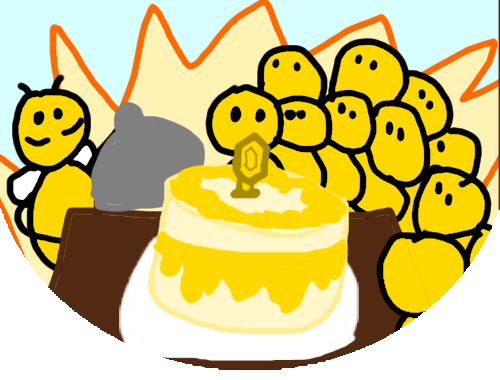
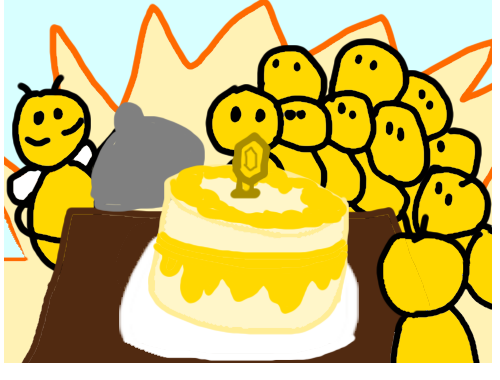
Fixed images Hex guard, flyby, gather order, frenzy dance, volunteers got new images

diff --git a/QueenMod/src/main/java/QueenMod/cards/Catering.java b/QueenMod/src/main/java/QueenMod/cards/Catering.java
@@ -17,8 +17,8 @@ import com.megacrit.cardcrawl.powers.StrengthPower;
 import static QueenMod.QueenMod.makeCardPath;
 
 // public class ${NAME} extends AbstractDynamicCard
-public class HoneyShield extends AbstractDynamicCard {
-    public static final String ID = QueenMod.makeID(HoneyShield.class.getSimpleName()); // USE THIS ONE FOR THE TEMPLATE;
+public class Catering extends AbstractDynamicCard {
+    public static final String ID = QueenMod.makeID(Catering.class.getSimpleName()); // USE THIS ONE FOR THE TEMPLATE;
     public static final String IMG = makeCardPath("catering.png");// "public static final String IMG = makeCardPath("${NAME}.png");
     // This does mean that you will need to have an image with the same NAME as the card in your image folder for it to run correctly.
     private static final CardStrings cardStrings = CardCrawlGame.languagePack.getCardStrings(ID);
@@ -42,7 +42,7 @@ public class HoneyShield extends AbstractDynamicCard {
     // /STAT DECLARATION/
 
 
-    public HoneyShield() { // public ${NAME}() - This one and the one right under the imports are the most important ones, don't forget them
+    public Catering() { // public ${NAME}() - This one and the one right under the imports are the most important ones, don't forget them
         super(ID, IMG, COST, TYPE, COLOR, RARITY, TARGET);
         baseMagicNumber = magicNumber = MAGIC;
     }

diff --git a/QueenMod/src/main/java/QueenMod/QueenMod.java b/QueenMod/src/main/java/QueenMod/QueenMod.java
@@ -427,7 +427,7 @@ public class QueenMod implements
         BaseMod.addCard(new StrategicGenius());
         //BaseMod.addCard(new FinishingBlow());
         //BaseMod.addCard(new ForcedMarch());
-        BaseMod.addCard(new HoneyShield());
+        BaseMod.addCard(new Catering());
         BaseMod.addCard(new Drone());
         BaseMod.addCard(new PopulateOrder());
         BaseMod.addCard(new BirthingCells());
@@ -535,7 +535,7 @@ public class QueenMod implements
         UnlockTracker.unlockCard(StrategicGenius.ID);
         //UnlockTracker.unlockCard(FinishingBlow.ID);
         //UnlockTracker.unlockCard(ForcedMarch.ID);
-        UnlockTracker.unlockCard(HoneyShield.ID);
+        UnlockTracker.unlockCard(Catering.ID);
         UnlockTracker.unlockCard(Drone.ID);
         UnlockTracker.unlockCard(PopulateOrder.ID);
         UnlockTracker.unlockCard(BirthingCells.ID);

diff --git a/QueenMod/src/main/java/QueenMod/cards/SwarmDance.java b/QueenMod/src/main/java/QueenMod/cards/SwarmDance.java
@@ -19,7 +19,7 @@ import static QueenMod.QueenMod.makeCardPath;
 public class SwarmDance extends AbstractDynamicCard {
 
     public static final String ID = QueenMod.makeID(SwarmDance.class.getSimpleName()); // USE THIS ONE FOR THE TEMPLATE;
-    public static final String IMG = makeCardPath("dance.png");// "public static final String IMG = makeCardPath("${NAME}.png");
+    public static final String IMG = makeCardPath("frenzydance.png");// "public static final String IMG = makeCardPath("${NAME}.png");
     // This does mean that you will need to have an image with the same NAME as the card in your image folder for it to run correctly.
     private static final CardStrings cardStrings = CardCrawlGame.languagePack.getCardStrings(ID);
     public static final String[] EXTENDED_DESCRIPTION = cardStrings.EXTENDED_DESCRIPTION;

diff --git a/QueenMod/src/main/java/QueenMod/cards/Volunteers.java b/QueenMod/src/main/java/QueenMod/cards/Volunteers.java
@@ -21,7 +21,7 @@ public class Volunteers extends AbstractDynamicCard {
     // TEXT DECLARATION
 
     public static final String ID = QueenMod.makeID(Volunteers.class.getSimpleName()); // USE THIS ONE FOR THE TEMPLATE;
-    public static final String IMG = makeCardPath("conscripts.png");// "public static final String IMG = makeCardPath("${NAME}.png");
+    public static final String IMG = makeCardPath("volunteers.png");// "public static final String IMG = makeCardPath("${NAME}.png");
     // This does mean that you will need to have an image with the same NAME as the card in your image folder for it to run correctly.
     private static final CardStrings cardStrings = CardCrawlGame.languagePack.getCardStrings(ID);
     private static final String DESCRIPTION = cardStrings.DESCRIPTION;

diff --git a/QueenMod/src/main/java/QueenMod/cards/HoneyBee.java b/QueenMod/src/main/java/QueenMod/cards/HoneyBee.java
@@ -14,7 +14,7 @@ import static QueenMod.QueenMod.makeCardPath;
 // public class ${NAME} extends AbstractDynamicCard
 public class HoneyBee extends AbstractDynamicCard implements IsHive {
     public static final String ID = QueenMod.makeID(HoneyBee.class.getSimpleName()); // USE THIS ONE FOR THE TEMPLATE;
-    public static final String IMG = makeCardPath("worker.png");// "public static final String IMG = makeCardPath("${NAME}.png");
+    public static final String IMG = makeCardPath("honeybee.png");// "public static final String IMG = makeCardPath("${NAME}.png");
     // This does mean that you will need to have an image with the same NAME as the card in your image folder for it to run correctly.
 
 

diff --git a/QueenMod/src/main/java/QueenMod/cards/Parry.java b/QueenMod/src/main/java/QueenMod/cards/Parry.java
@@ -38,8 +38,8 @@ public class Parry extends AbstractDynamicCard {
     private static final int COST = 1;  // COST = ${COST}
     private static final int UPGRADED_COST = 1; // UPGRADED_COST = ${UPGRADED_COST}
 
-    private static final int BLOCK = 5;    // DAMAGE = ${DAMAGE}
-    private static final int UPGRADE_PLUS_BLOCK = 2;  // UPGRADE_PLUS_DMG = ${UPGRADED_DAMAGE_INCREASE}
+    private static final int BLOCK = 7;    // DAMAGE = ${DAMAGE}
+    private static final int UPGRADE_PLUS_BLOCK = 3;  // UPGRADE_PLUS_DMG = ${UPGRADED_DAMAGE_INCREASE}
     AbstractCard ripPreview = new Riposte();
     // /STAT DECLARATION/
 

diff --git a/QueenMod/src/main/java/QueenMod/cards/Gather.java b/QueenMod/src/main/java/QueenMod/cards/Gather.java
@@ -26,7 +26,7 @@ public class Gather extends AbstractDynamicCard {
     // TEXT DECLARATION
 
     public static final String ID = QueenMod.makeID(Gather.class.getSimpleName());
-    public static final String IMG = makeCardPath("Honeybee.png");
+    public static final String IMG = makeCardPath("gatherorder.png");
     private static final CardStrings cardStrings = CardCrawlGame.languagePack.getCardStrings(ID);
     private static final String DESCRIPTION = cardStrings.DESCRIPTION;
     private static final String UPGRADE_DESCRIPTION = cardStrings.UPGRADE_DESCRIPTION;

diff --git a/QueenMod/src/main/java/QueenMod/cards/Riposte.java b/QueenMod/src/main/java/QueenMod/cards/Riposte.java
@@ -33,7 +33,7 @@ public class Riposte extends AbstractDynamicCard {
 
     private static final int COST = 1;  // COST = ${COST}
 
-    private static final int DAMAGE = 9;    // DAMAGE = ${DAMAGE}
+    private static final int DAMAGE = 7;    // DAMAGE = ${DAMAGE}
     private static final int UPGRADE_PLUS_DMG = 3;  // UPGRADE_PLUS_DMG = ${UPGRADED_DAMAGE_INCREASE}
     public boolean playedBySwarm;
     // /STAT DECLARATION/
